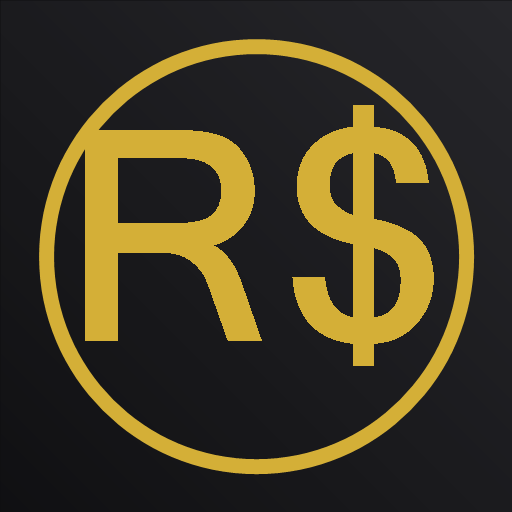
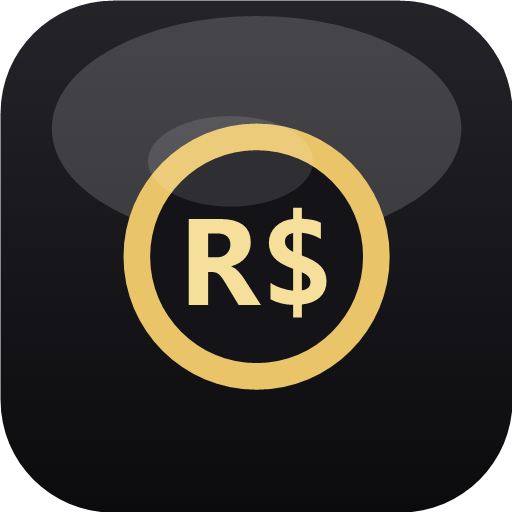
Configuración: opción de restar inversiones del balance, selector de icono de la app (Cuarzo/Esmeralda/Zafiro) con cambio en vivo del icono del lanzador

diff --git a/js/dashboard.js b/js/dashboard.js
@@ -10,6 +10,7 @@ async function renderDashboard() {
     DB.getAll(StoreNames.LOANS),
     Gold.getPricePerGram()
   ]);
+  const includeInvestments = await DB.getSetting('includeInvestments', false);
 
   const ym = currentMonthKey();
 
@@ -21,8 +22,10 @@ async function renderDashboard() {
   const totalOutBRL = sum(expenses, brlOf);
   const totalInGold = sum(incomes, goldOf);
   const totalOutGold = sum(expenses, goldOf);
-  const netBRL = totalInBRL - totalOutBRL;
-  const netGold = totalInGold - totalOutGold;
+  const invBRL = sum(investments, r => parseFloat(r.investedAmount) || 0);
+  const invGold = sum(investments, r => (parseFloat(r.investedAmount) || 0) / goldPrice);
+  const netBRL = totalInBRL - totalOutBRL - (includeInvestments ? invBRL : 0);
+  const netGold = totalInGold - totalOutGold - (includeInvestments ? invGold : 0);
 
   const monthIn = sum(incomes.filter(i => monthKey(i.date) === ym), brlOf);
   const monthOut = sum(expenses.filter(e => monthKey(e.date) === ym), brlOf);
@@ -196,13 +199,15 @@ async function renderDashboard() {
 /* ============ Página Oro ============ */
 async function renderGoldPage() {
   const container = document.getElementById('page-gold');
-  const [incomes, expenses, price] = await Promise.all([
+  const [incomes, expenses, investments, price] = await Promise.all([
     DB.getAll(StoreNames.INCOMES),
     DB.getAll(StoreNames.EXPENSES),
+    DB.getAll(StoreNames.INVESTMENTS),
     Gold.getPricePerGram()
   ]);
+  const includeInvestments = await DB.getSetting('includeInvestments', false);
 
-  let inGold = 0, outGold = 0;
+  let inGold = 0, outGold = 0, invGold = 0;
   const goldTx = [];
   for (const inc of incomes) {
     inGold += Gold.isGold(inc) ? (parseFloat(inc.goldAmount) || 0) : (parseFloat(inc.amount) || 0) / price;
@@ -212,7 +217,10 @@ async function renderGoldPage() {
     outGold += Gold.isGold(exp) ? (parseFloat(exp.goldAmount) || 0) : (parseFloat(exp.amount) || 0) / price;
     goldTx.push({ ...exp, kind: 'expense' });
   }
-  const netGold = inGold - outGold;
+  for (const inv of investments) {
+    invGold += (parseFloat(inv.investedAmount) || 0) / price;
+  }
+  const netGold = inGold - outGold - (includeInvestments ? invGold : 0);
   goldTx.sort((a, b) => (b.date || '').localeCompare(a.date || ''));
   const recentGold = goldTx.slice(0, 8);
 
@@ -310,6 +318,7 @@ async function renderSettingsPage() {
   const container = document.getElementById('page-settings');
   const price = await Gold.getPricePerGram();
   const cfg = await Budget.get();
+  const iconTheme = await Icon.current();
 
   container.innerHTML = `
     <div class="card">
@@ -327,6 +336,26 @@ async function renderSettingsPage() {
           <div><label>Precio del oro</label><div class="si-desc">R$ por gramo</div></div>
           <input type="number" id="set-gold" step="0.01" value="${price}" style="width:110px; padding:10px; border-radius:12px; border:1px solid var(--border); background:var(--bg-input); color:var(--text); text-align:right">
         </div>
+      </div>
+    </div>
+
+    <div class="card">
+      <div class="card-header"><h3>Icono de la app</h3></div>
+      <div class="icon-grid">
+        ${Icon.themes.map(t => `
+          <button class="icon-opt ${iconTheme === t.id ? 'selected' : ''}" data-icon="${t.id}">
+            <img src="${t.file}" alt="${t.label}">
+            <span>${t.label}</span>
+          </button>`).join('')}
+      </div>
+      <div class="form-hint">Cambia el icono y aplícalo desde tu pantalla de inicio.</div>
+    </div>
+
+    <div class="card">
+      <div class="card-header"><h3>Balance</h3></div>
+      <div class="settings-item">
+        <div><label>Restar inversiones del balance</label><div class="si-desc">Trata el dinero invertido como gastado</div></div>
+        <label class="switch"><input type="checkbox" id="set-inv" ${App.state.includeInvestments ? 'checked' : ''}><span class="slider"></span></label>
       </div>
     </div>
 
@@ -381,6 +410,19 @@ async function renderSettingsPage() {
       const p = parseFloat(e.target.value);
       if (p > 0) { await Gold.setPricePerGram(p); Toast.success('Precio actualizado'); }
     }, 600);
+  });
+
+  document.getElementById('set-inv').addEventListener('change', async e => {
+    App.state.includeInvestments = e.target.checked;
+    await DB.setSetting('includeInvestments', App.state.includeInvestments);
+  });
+
+  document.querySelectorAll('#page-settings [data-icon]').forEach(btn => {
+    btn.addEventListener('click', async () => {
+      await Icon.apply(btn.dataset.icon);
+      Toast.success('Icono actualizado');
+      document.querySelectorAll('#page-settings [data-icon]').forEach(x => x.classList.toggle('selected', x === btn));
+    });
   });
 
   document.getElementById('budget-save').addEventListener('click', async () => {

diff --git a/js/app.js b/js/app.js
@@ -29,9 +29,53 @@ function currentMonthKey() {
   return new Date().toISOString().slice(0, 7);
 }
 
+/* ============ App icon themes ============ */
+const Icon = {
+  themes: [
+    { id: 'cuarzo', label: 'Cuarzo', file: 'icons/icon-cuarzo.png' },
+    { id: 'esmeralda', label: 'Esmeralda', file: 'icons/icon-esmeralda.png' },
+    { id: 'zafiro', label: 'Zafiro', file: 'icons/icon-zafiro.png' }
+  ],
+
+  async current() {
+    const t = await DB.getSetting('iconTheme', 'cuarzo');
+    return Icon.themes.some(x => x.id === t) ? t : 'cuarzo';
+  },
+
+  async apply(theme) {
+    await DB.setSetting('iconTheme', theme);
+    const logo = document.getElementById('app-logo');
+    const found = Icon.themes.find(x => x.id === theme) || Icon.themes[0];
+    if (logo) logo.src = found.file;
+    const cap = typeof window !== 'undefined' ? window.Capacitor : null;
+    if (cap && cap.isNativePlatform && cap.isNativePlatform() && typeof cap.nativePromise === 'function') {
+      try {
+        await cap.nativePromise('IconSwitcher', 'setTheme', { theme });
+      } catch (err) {
+        console.error('IconSwitcher failed:', err);
+      }
+    }
+  },
+
+  async syncOnStart() {
+    const theme = await Icon.current();
+    const logo = document.getElementById('app-logo');
+    const found = Icon.themes.find(x => x.id === theme) || Icon.themes[0];
+    if (logo) logo.src = found.file;
+    const cap = typeof window !== 'undefined' ? window.Capacitor : null;
+    if (cap && cap.isNativePlatform && cap.isNativePlatform() && typeof cap.nativePromise === 'function') {
+      try {
+        await cap.nativePromise('IconSwitcher', 'setTheme', { theme });
+      } catch (err) {
+        console.error('IconSwitcher init failed:', err);
+      }
+    }
+  }
+};
+
 /* ============ App state & shell ============ */
 const App = {
-  state: { theme: 'dark', hide: false },
+  state: { theme: 'dark', hide: false, includeInvestments: false },
   pg: 'dashboard',
 
   async init() {
@@ -40,10 +84,13 @@ const App = {
 
     const theme = await DB.getSetting('theme', 'dark');
     const hide = await DB.getSetting('hideAmounts', false);
+    const includeInvestments = await DB.getSetting('includeInvestments', false);
     App.state.theme = theme === 'light' ? 'light' : 'dark';
     App.state.hide = !!hide;
+    App.state.includeInvestments = !!includeInvestments;
     document.documentElement.setAttribute('data-theme', App.state.theme);
     App.syncHeaderButtons();
+    Icon.syncOnStart();
 
     App.bindHeader();
     App.bindTabs();

diff --git a/css/styles.css b/css/styles.css
@@ -121,6 +121,14 @@ button {
   letter-spacing: -0.02em;
 }
 
+#app-logo {
+  width: 30px;
+  height: 30px;
+  border-radius: 8px;
+  margin-right: 2px;
+  flex-shrink: 0;
+}
+
 .hbtn {
   background: none;
   border: none;
@@ -704,6 +712,32 @@ button {
 }
 .switch input:checked + .slider { background: var(--ink); }
 .switch input:checked + .slider::before { transform: translateX(20px); }
+
+/* ================= APP ICON PICKER ================= */
+.icon-grid {
+  display: grid;
+  grid-template-columns: repeat(3, 1fr);
+  gap: 10px;
+  margin: 6px 0;
+}
+.icon-opt {
+  display: flex;
+  flex-direction: column;
+  align-items: center;
+  gap: 6px;
+  padding: 12px 8px;
+  background: var(--bg-input);
+  border: 2px solid var(--border);
+  border-radius: var(--radius-lg, 16px);
+  color: var(--text);
+  font-size: 0.82rem;
+  font-weight: 500;
+  cursor: pointer;
+  transition: border-color 0.2s, transform 0.15s;
+}
+.icon-opt img { width: 52px; height: 52px; border-radius: 14px; }
+.icon-opt.selected { border-color: var(--ink); }
+.icon-opt:active { transform: scale(0.96); }
 
 /* ================= CONVERTER ================= */
 .converter {

diff --git a/sw.js b/sw.js
@@ -1,4 +1,4 @@
-const CACHE_NAME = 'finanzas-v2';
+const CACHE_NAME = 'finanzas-v3';
 const ASSETS = [
   '/',
   '/index.html',
@@ -16,7 +16,10 @@ const ASSETS = [
   '/js/app.js',
   '/manifest.json',
   '/icons/icon-192.png',
-  '/icons/icon-512.png'
+  '/icons/icon-512.png',
+  '/icons/icon-cuarzo.png',
+  '/icons/icon-esmeralda.png',
+  '/icons/icon-zafiro.png'
 ];
 
 self.addEventListener('install', e => {

diff --git a/index.html b/index.html
@@ -15,6 +15,7 @@
 <body>
   <div id="app">
     <header id="header">
+      <img id="app-logo" src="icons/icon-cuarzo.png" alt="">
       <h1 id="page-title">Inicio</h1>
       <button class="hbtn" id="hide-toggle" aria-label="Ocultar montos">&#128065;</button>
       <button class="hbtn" id="theme-toggle" aria-label="Cambiar tema">&#9789;</button>

diff --git a/android/app/src/main/java/com/mawariton/finanzas/IconSwitcherPlugin.java b/android/app/src/main/java/com/mawariton/finanzas/IconSwitcherPlugin.java
@@ -1,0 +1,51 @@
+package com.mawariton.finanzas;
+
+import android.content.ComponentName;
+import android.content.pm.PackageManager;
+
+import com.getcapacitor.JSObject;
+import com.getcapacitor.Plugin;
+import com.getcapacitor.PluginCall;
+import com.getcapacitor.annotation.CapacitorPlugin;
+
+@CapacitorPlugin(name = "IconSwitcher")
+public class IconSwitcherPlugin extends Plugin {
+
+    private static final String[] ALIASES = {
+            ".MainActivityCuarzo",
+            ".MainActivityEsmeralda",
+            ".MainActivityZafiro"
+    };
+
+    public void setTheme(PluginCall call) {
+        String theme = call.getString("theme", "cuarzo");
+        String pkg = getContext().getPackageName();
+        String target = null;
+        if ("esmeralda".equals(theme)) {
+            target = pkg + ".MainActivityEsmeralda";
+        } else if ("zafiro".equals(theme)) {
+            target = pkg + ".MainActivityZafiro";
+        } else {
+            target = pkg + ".MainActivityCuarzo";
+        }
+        try {
+            PackageManager pm = getContext().getPackageManager();
+            pm.setComponentEnabledSetting(
+                    new ComponentName(pkg, target),
+                    PackageManager.COMPONENT_ENABLED_STATE_ENABLED,
+                    PackageManager.DONT_KILL_APP);
+            for (String alias : ALIASES) {
+                String component = pkg + alias;
+                if (!component.equals(target)) {
+                    pm.setComponentEnabledSetting(
+                            new ComponentName(pkg, component),
+                            PackageManager.COMPONENT_ENABLED_STATE_DISABLED,
+                            PackageManager.DONT_KILL_APP);
+                }
+            }
+            call.resolve(new JSObject().put("ok", true));
+        } catch (Exception ex) {
+            call.reject(ex.getMessage());
+        }
+    }
+}

diff --git a/android/app/src/main/java/com/mawariton/finanzas/MainActivity.java b/android/app/src/main/java/com/mawariton/finanzas/MainActivity.java
@@ -1,5 +1,14 @@
 package com.mawariton.finanzas;
 
+import android.os.Bundle;
+
 import com.getcapacitor.BridgeActivity;
 
-public class MainActivity extends BridgeActivity {}
+public class MainActivity extends BridgeActivity {
+
+    @Override
+    public void onCreate(Bundle savedInstanceState) {
+        registerPlugin(IconSwitcherPlugin.class);
+        super.onCreate(savedInstanceState);
+    }
+}
